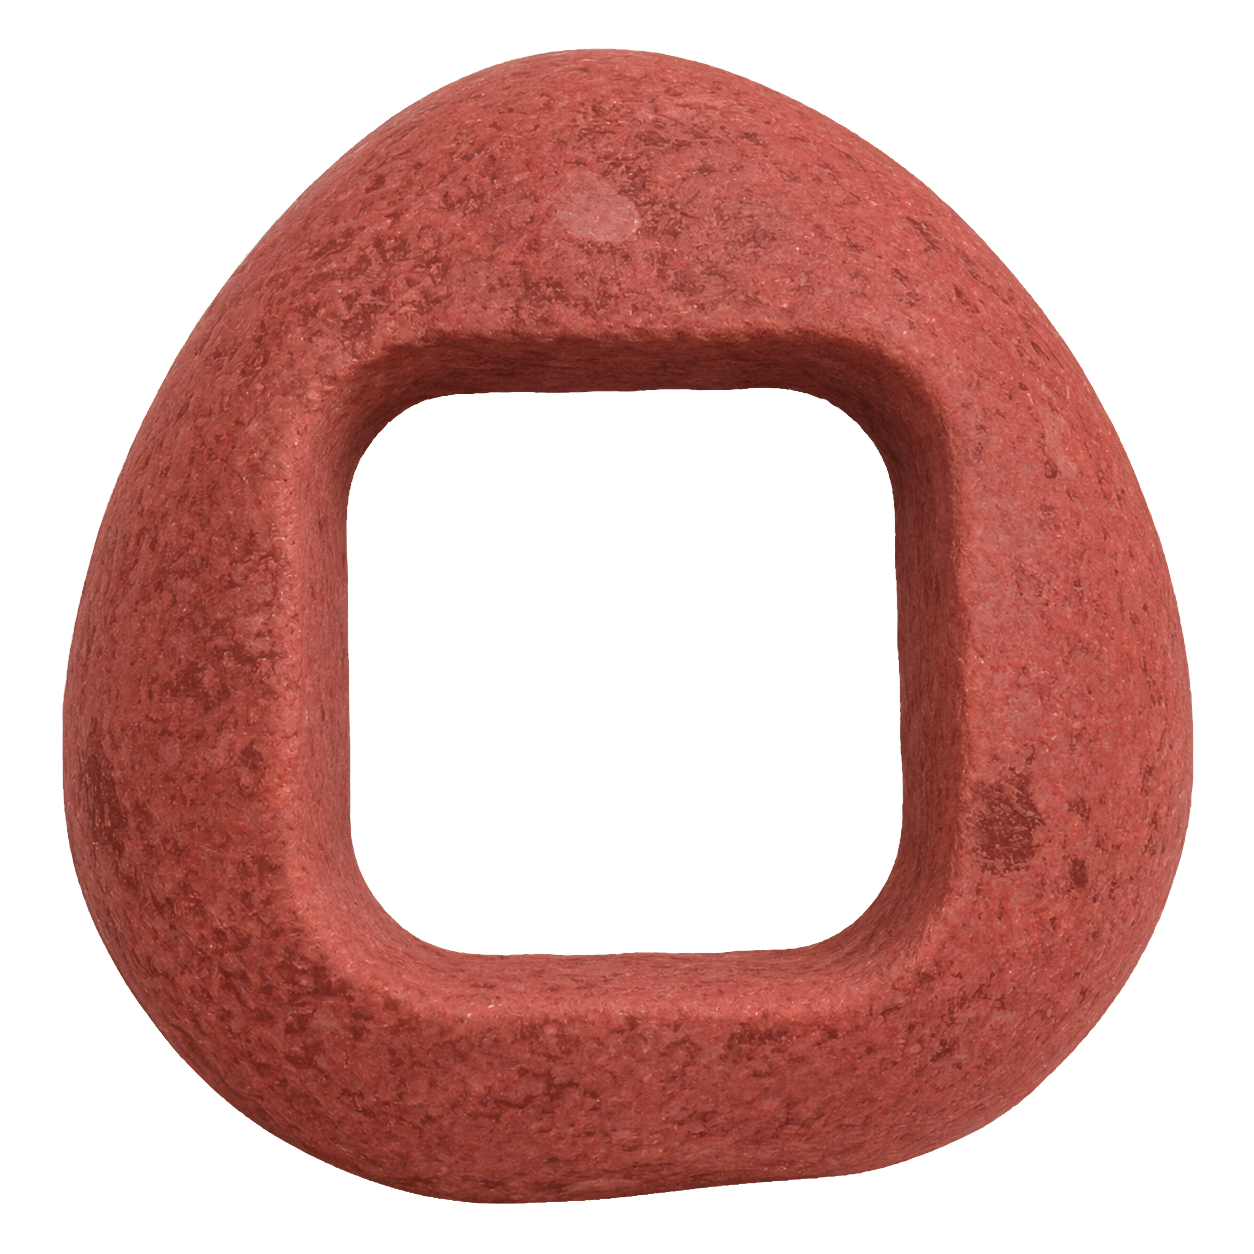
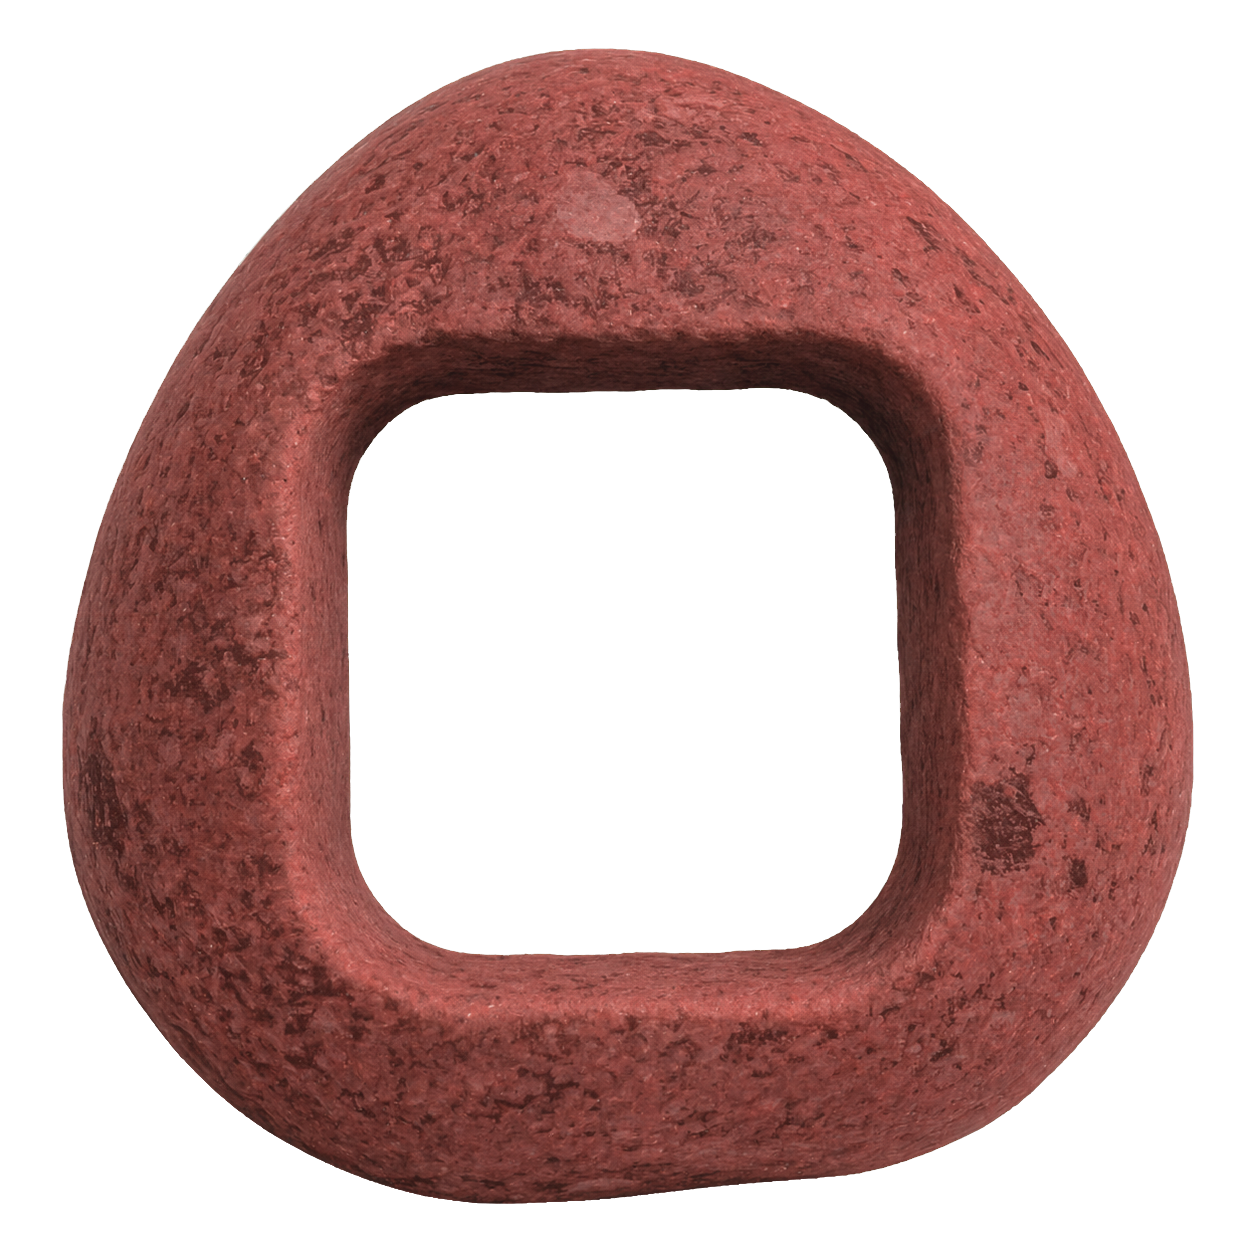
Added bold titles, changed ex pebble

diff --git a/script.js b/script.js
@@ -167,6 +167,16 @@ function linkify(text) {
   });
 }
 
+function formatProjectText(text) {
+  const lines = text.split("\n");
+
+  if (lines.length > 0) {
+    lines[0] = `<span class="project-title">${lines[0]}</span>`;
+  }
+
+  return linkify(lines.join("\n"));
+}
+
 function openGallery(project) {
   currentProject = project;
   currentImage = 0;
@@ -179,7 +189,7 @@ function showGalleryImage() {
   if (!currentProject) return;
   galleryImage.src = currentProject.images[currentImage];
   galleryImage.alt = `${currentProject.name} ${currentImage + 1}`;
-  galleryText.innerHTML = linkify(
+  galleryText.innerHTML = formatProjectText(
   currentProject.text || currentProject.name
 );
 }

diff --git a/style.css b/style.css
@@ -140,6 +140,10 @@ button { font: inherit; }
   user-select: none;
 }
 
+.project-title {
+  font-weight: 500;
+}
+
 .gallery-text {
   width: 100%;
   max-width: 700px;
